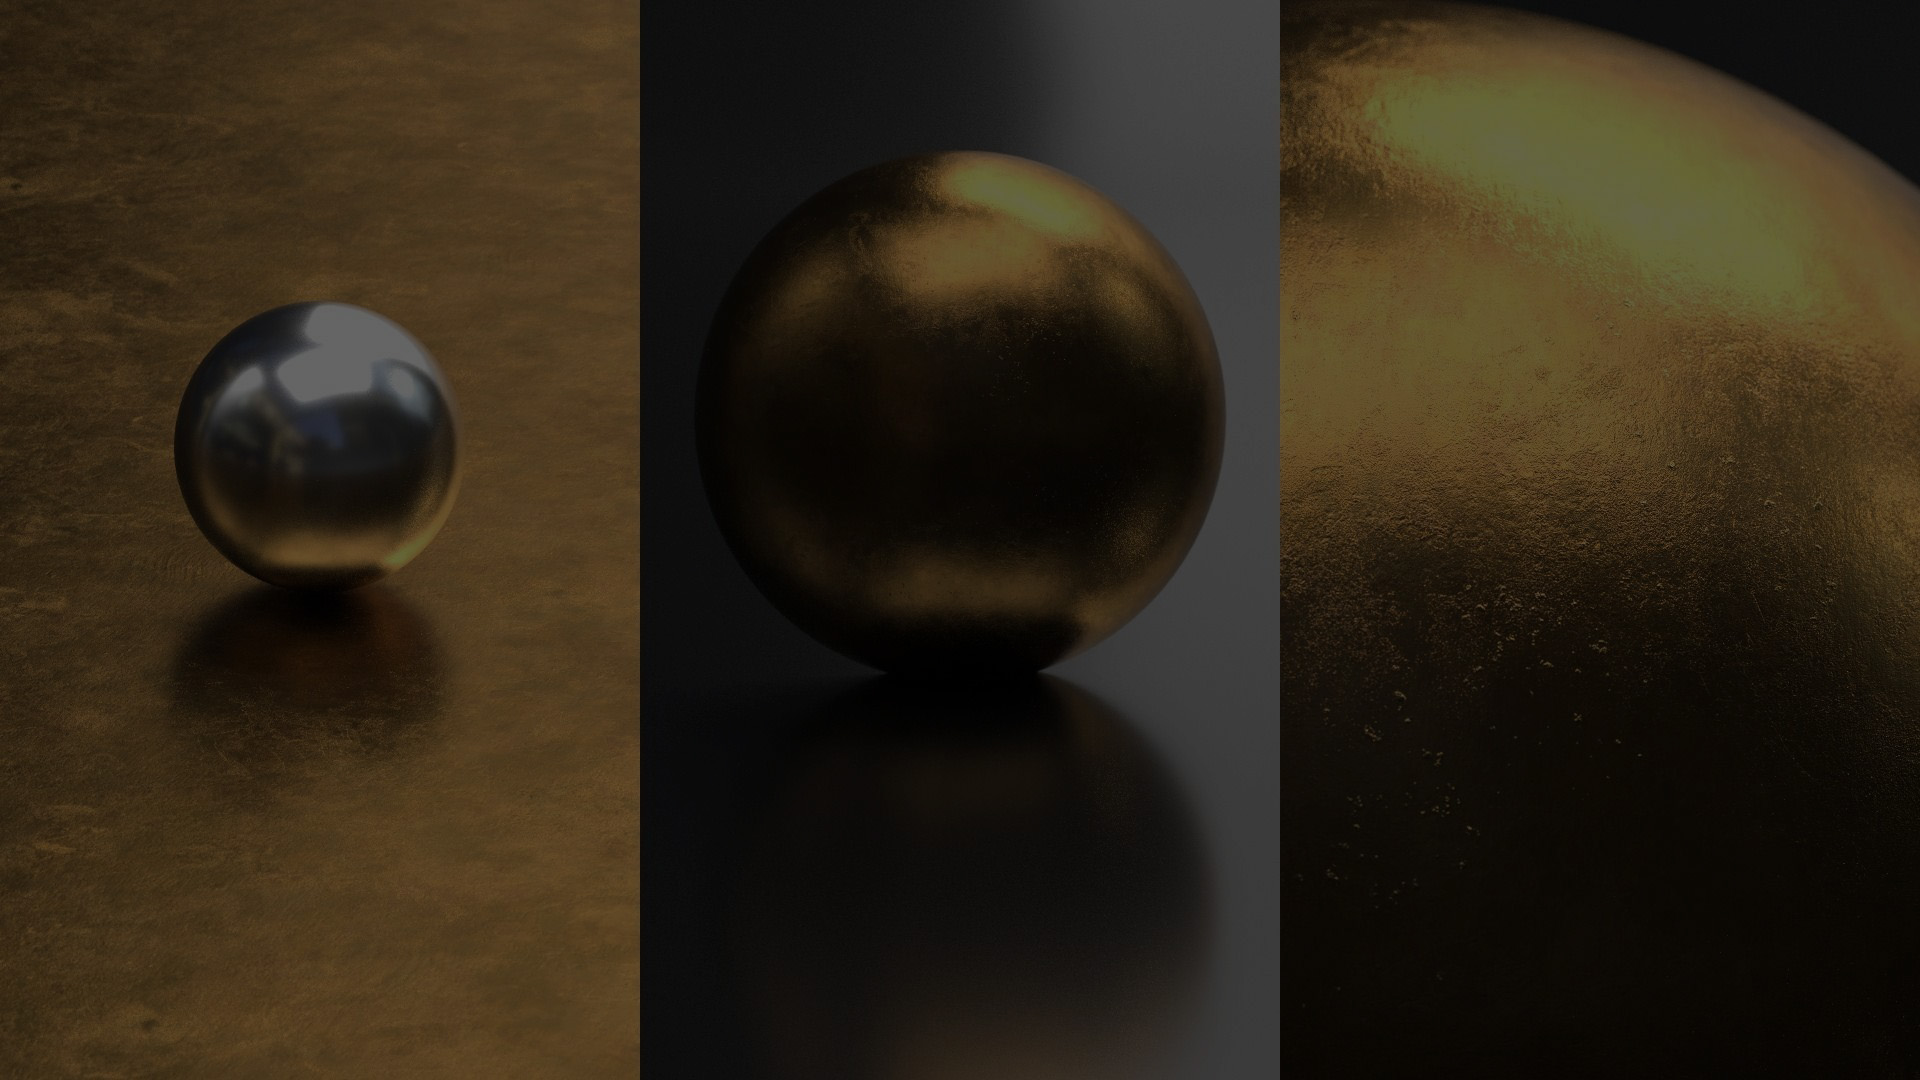
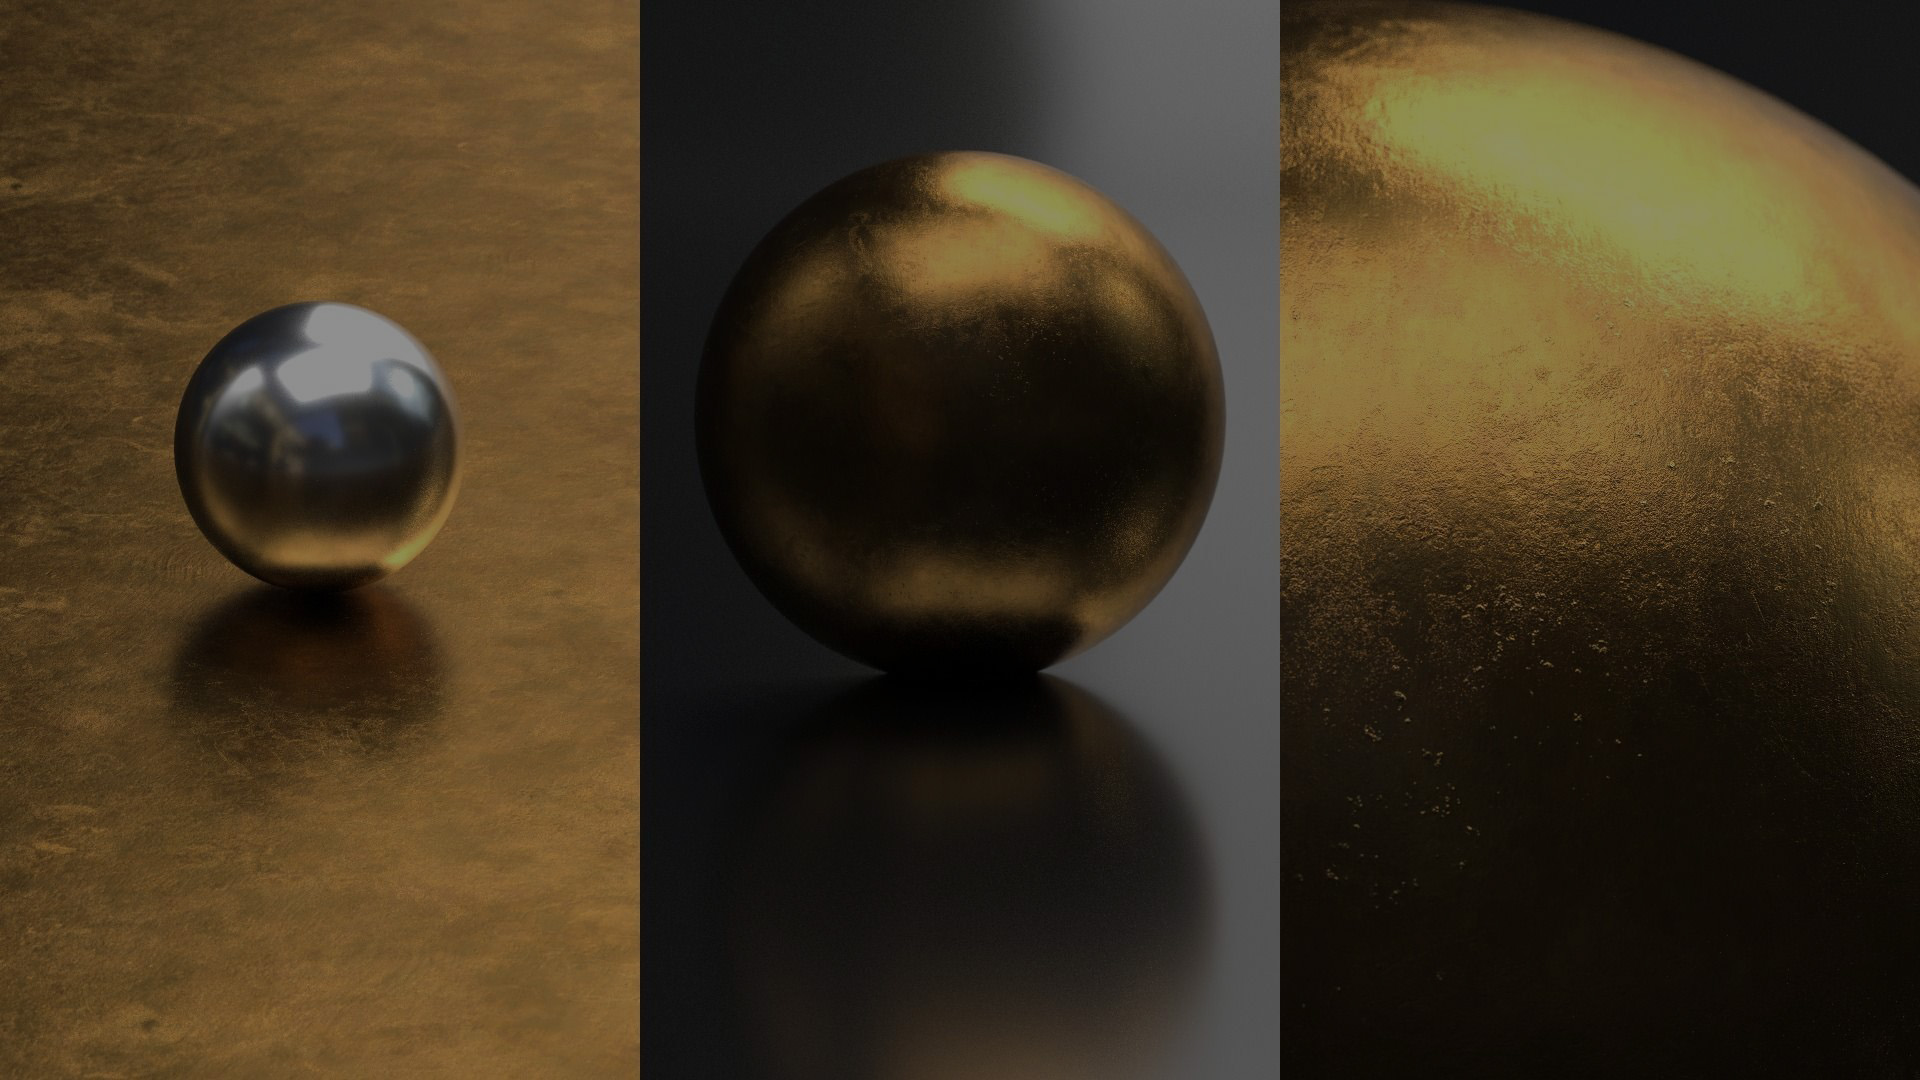
Fix illustration position

diff --git a/index.html b/index.html
@@ -354,7 +354,7 @@
 					</script>
 				</section>
 
-				<section data-markdown data-background-image="resources/rogelio-olguin-orp-03.jpg">
+				<section data-markdown data-background-image="resources/rogelio-olguin-orp-03.jpg" data-background-size="contain">
 					<script type="text/template">
 						## Okai, so let's summarize
 						I have a 3D model...
@@ -535,9 +535,10 @@
 
 						- possible to display anything
 
-						   example: [Shadertoy](https://www.shadertoy.com/)
+						   - example: [Shadertoy](https://www.shadertoy.com/)
+						   - example: below, we don't use an image but procedurally produce the output
 
-						<iframe data-src="iframes/cube-unfolding.html" style="height:400px; width: 100%"></iframe>
+						<iframe data-src="iframes/cube-unfolding.html" style="height:300px; width: 100%"></iframe>
 					</script>
 				</section>
 
@@ -566,7 +567,7 @@
 					</script>
 				</section>
 
-				<section data-markdown data-background-image="resources/chris-pollitt-rad-rodgers.jpg">
+				<section data-markdown data-background-image="resources/chris-pollitt-rad-rodgers.jpg" data-background-size="contain">
 					<script type="text/template">
 						## Light
 
@@ -680,7 +681,7 @@
 					</script>
 				</section>
 
-				<section data-markdown data-background-image="resources/the-witcher-mblaszcak.jpg">
+				<section data-markdown data-background-image="resources/the-witcher-mblaszcak.jpg" data-background-size="contain">
 					<script type="text/template">
 						## Physically based rendering
 
@@ -842,7 +843,7 @@
 					</script>
 				</section>
 
-				<section data-markdown data-background-image="resources/amy-payne-mw-pool-tile-substance-materials.jpg">
+				<section data-markdown data-background-image="resources/amy-payne-mw-pool-tile-substance-materials.jpg" data-background-size="contain">
 					<script type="text/template">
 						## Material layering
 
@@ -852,7 +853,7 @@
 
 				<section data-markdown>
 					<script type="text/template">
-						### Let's summary the standard workflow
+						### Let's summarize the standard workflow
 
 						- we have a ready to use materials library
 
@@ -872,7 +873,7 @@
 					</script>
 				</section>
 
-				<section data-markdown data-background-image="resources/dynamic_material_blending_materials.jpg">
+				<section data-markdown data-background-image="resources/dynamic_material_blending_materials.jpg" data-background-size="contain">
 					<script type="text/template">
 						### Example
 
@@ -912,7 +913,7 @@
 					</script>
 				</section>
 
-				<section data-markdown data-background-image="resources/pierre-fleau-blendmat.jpg">
+				<section data-markdown data-background-image="resources/pierre-fleau-blendmat.jpg" data-background-size="contain">
 					<script type="text/template">
 						#### To be continued...
 
